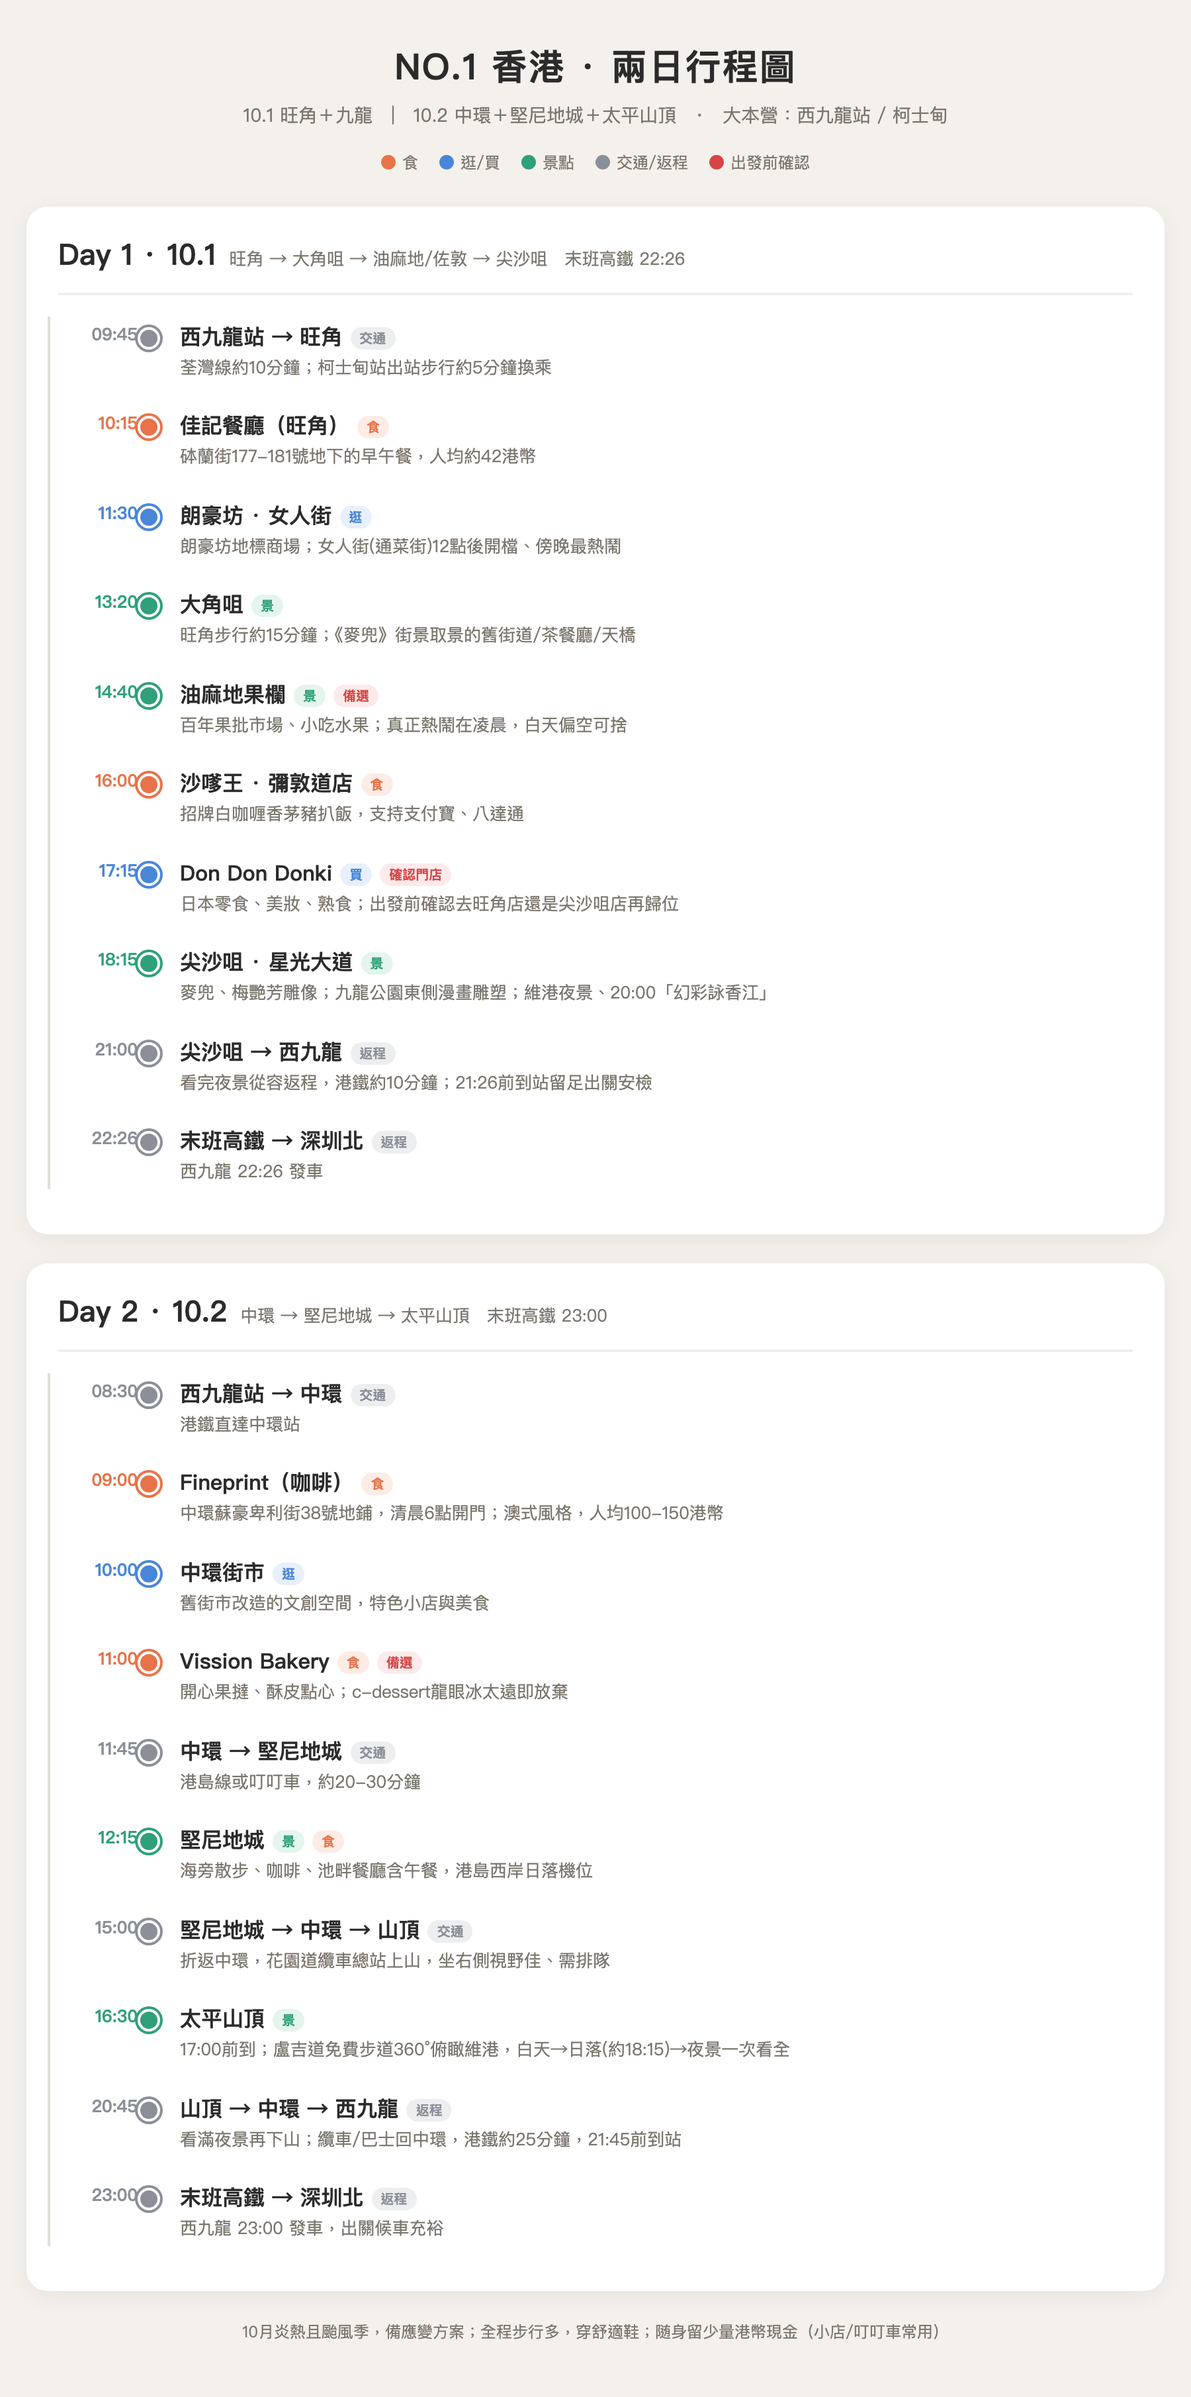
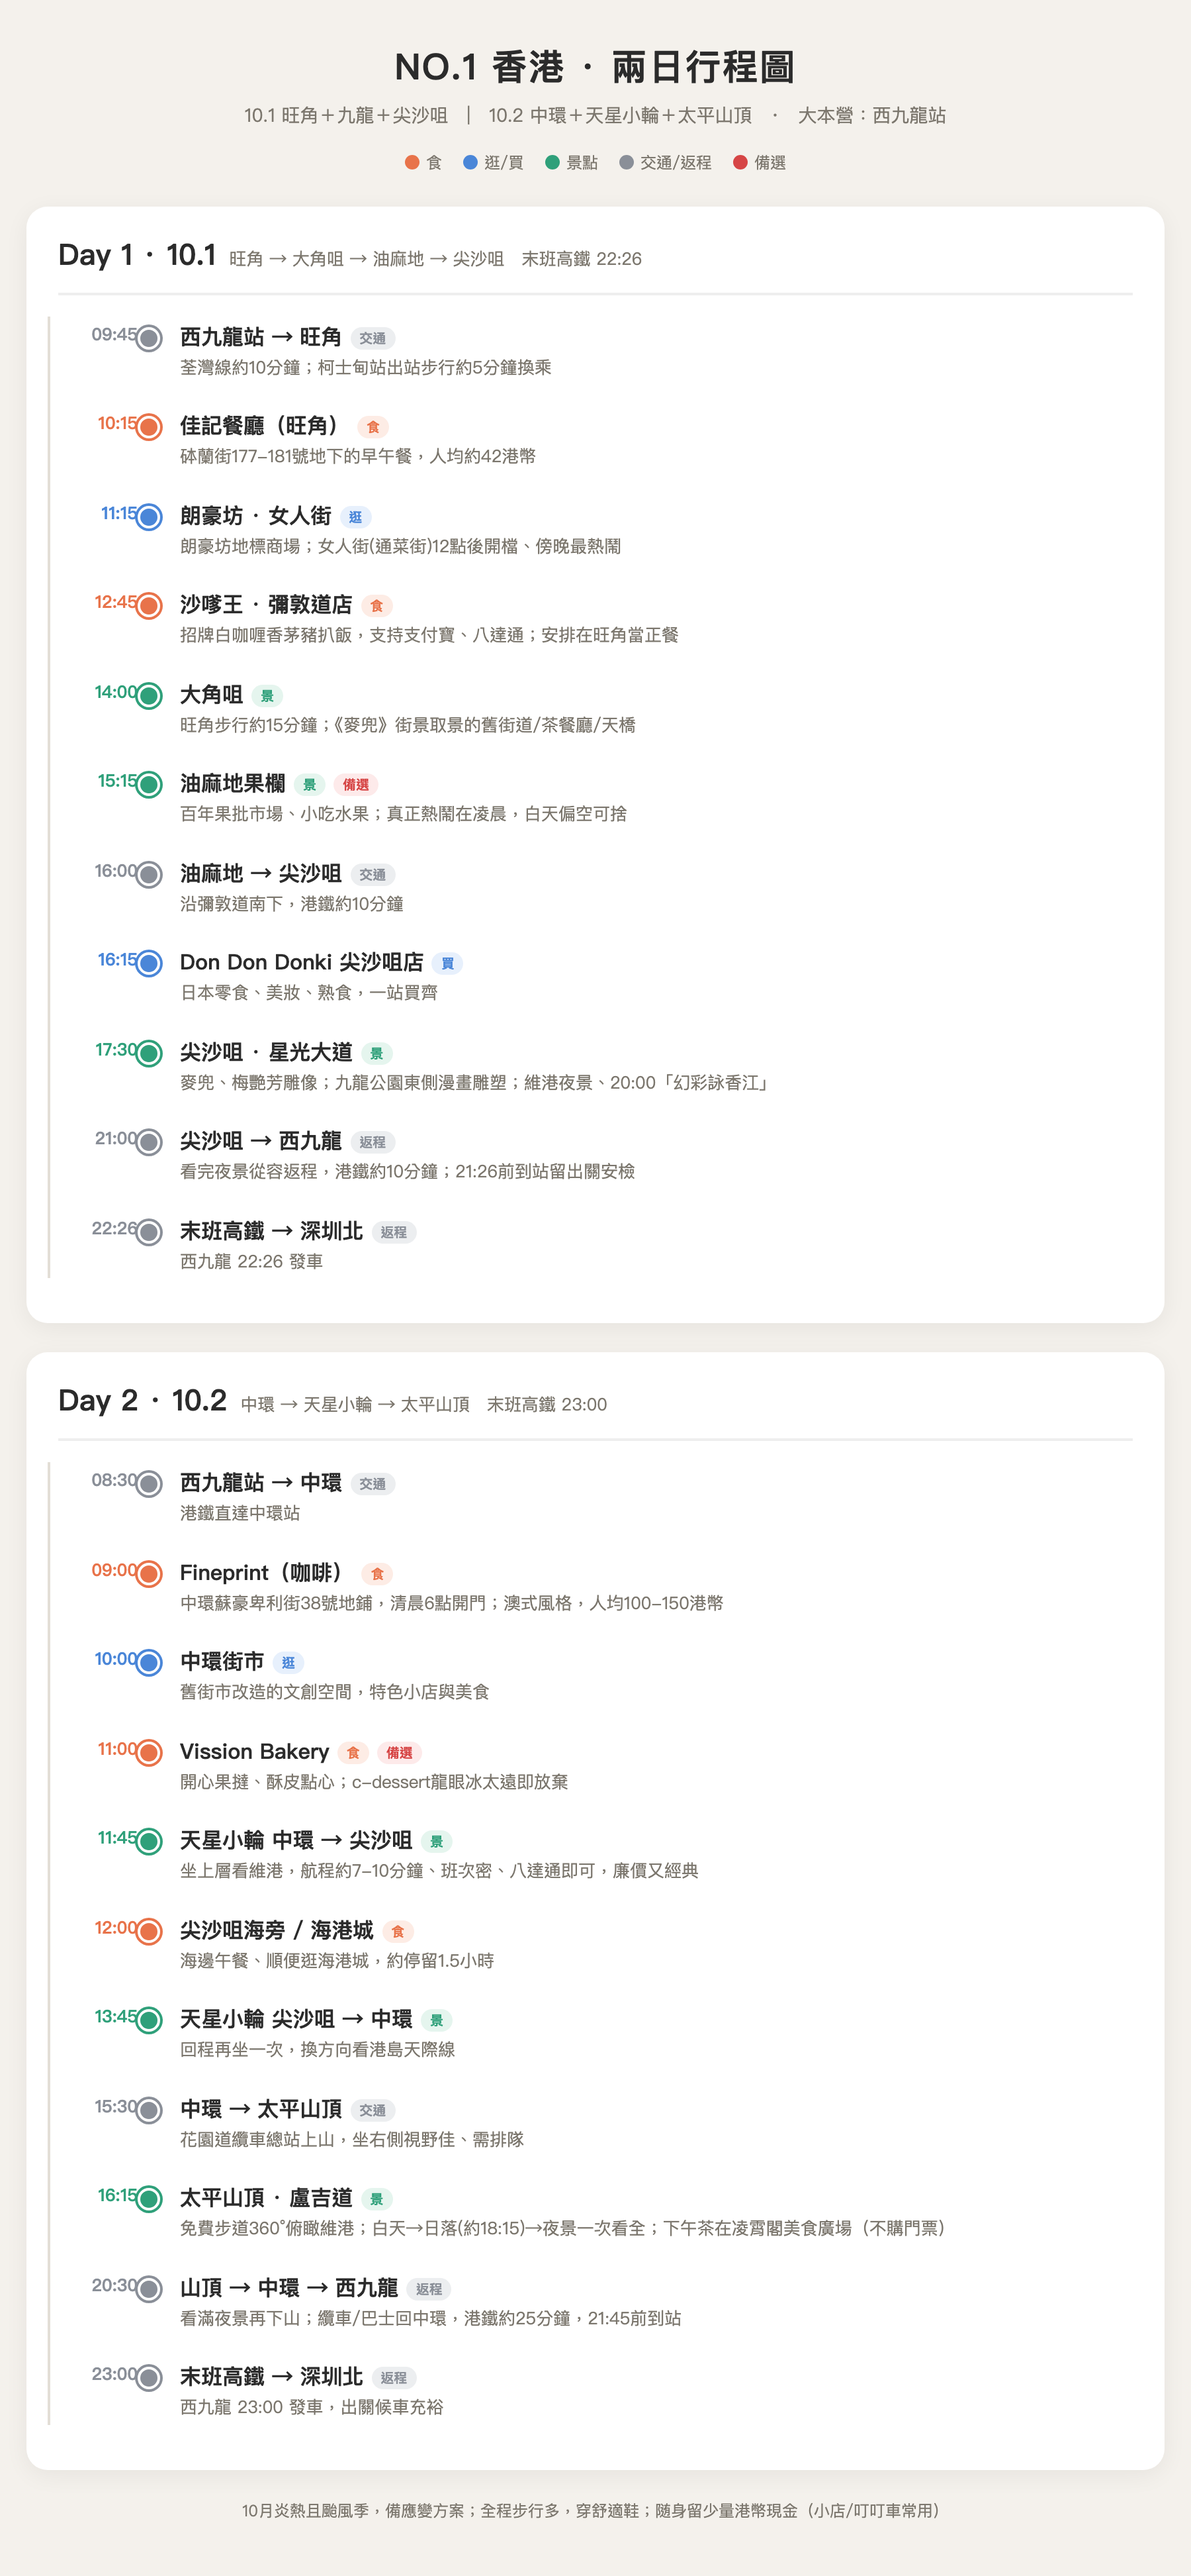
[2026-09-29] 日常 - 香港攻略更新:Donki改尖沙咀/删坚尼地城/加天星小轮/山顶免费卢吉道

diff --git a/日常/2026-09-29/香港行程图_10.1-10.2.html b/日常/2026-09-29/香港行程图_10.1-10.2.html
@@ -41,46 +41,48 @@
 <div class="wrap">
   <header>
     <h1>NO.1 香港 · 兩日行程圖</h1>
-    <p>10.1 旺角＋九龍　|　10.2 中環＋堅尼地城＋太平山頂　·　大本營：西九龍站 / 柯士甸</p>
+    <p>10.1 旺角＋九龍＋尖沙咀　|　10.2 中環＋天星小輪＋太平山頂　·　大本營：西九龍站</p>
   </header>
   <div class="legend">
     <span><i class="dot" style="background:var(--food)"></i>食</span>
     <span><i class="dot" style="background:var(--shop)"></i>逛/買</span>
     <span><i class="dot" style="background:var(--sight)"></i>景點</span>
     <span><i class="dot" style="background:var(--transit)"></i>交通/返程</span>
-    <span><i class="dot" style="background:var(--warn)"></i>出發前確認</span>
+    <span><i class="dot" style="background:var(--warn)"></i>備選</span>
   </div>
 
   <!-- DAY 1 -->
   <section class="day">
-    <div class="day-title"><span class="no">Day 1 · 10.1</span><span class="route">旺角 → 大角咀 → 油麻地/佐敦 → 尖沙咀　末班高鐵 22:26</span></div>
+    <div class="day-title"><span class="no">Day 1 · 10.1</span><span class="route">旺角 → 大角咀 → 油麻地 → 尖沙咀　末班高鐵 22:26</span></div>
     <div class="track">
       <div class="stop" style="--t:var(--transit)"><div class="clock">09:45</div><div class="name">西九龍站 → 旺角<span class="tag transit">交通</span></div><div class="desc">荃灣線約10分鐘；柯士甸站出站步行約5分鐘換乘</div></div>
       <div class="stop" style="--t:var(--food)"><div class="clock">10:15</div><div class="name">佳記餐廳（旺角）<span class="tag food">食</span></div><div class="desc">砵蘭街177-181號地下的早午餐，人均約42港幣</div></div>
-      <div class="stop" style="--t:var(--shop)"><div class="clock">11:30</div><div class="name">朗豪坊 · 女人街<span class="tag shop">逛</span></div><div class="desc">朗豪坊地標商場；女人街(通菜街)12點後開檔、傍晚最熱鬧</div></div>
-      <div class="stop" style="--t:var(--sight)"><div class="clock">13:20</div><div class="name">大角咀<span class="tag sight">景</span></div><div class="desc">旺角步行約15分鐘；《麥兜》街景取景的舊街道/茶餐廳/天橋</div></div>
-      <div class="stop" style="--t:var(--sight)"><div class="clock">14:40</div><div class="name">油麻地果欄<span class="tag sight">景</span><span class="tag todo">備選</span></div><div class="desc">百年果批市場、小吃水果；真正熱鬧在凌晨，白天偏空可捨</div></div>
-      <div class="stop" style="--t:var(--food)"><div class="clock">16:00</div><div class="name">沙嗲王 · 彌敦道店<span class="tag food">食</span></div><div class="desc">招牌白咖喱香茅豬扒飯，支持支付寶、八達通</div></div>
-      <div class="stop" style="--t:var(--shop)"><div class="clock">17:15</div><div class="name">Don Don Donki<span class="tag shop">買</span><span class="tag todo">確認門店</span></div><div class="desc">日本零食、美妝、熟食；出發前確認去旺角店還是尖沙咀店再歸位</div></div>
-      <div class="stop" style="--t:var(--sight)"><div class="clock">18:15</div><div class="name">尖沙咀 · 星光大道<span class="tag sight">景</span></div><div class="desc">麥兜、梅艷芳雕像；九龍公園東側漫畫雕塑；維港夜景、20:00「幻彩詠香江」</div></div>
-      <div class="stop" style="--t:var(--transit)"><div class="clock">21:00</div><div class="name">尖沙咀 → 西九龍<span class="tag transit">返程</span></div><div class="desc">看完夜景從容返程，港鐵約10分鐘；21:26前到站留足出關安檢</div></div>
+      <div class="stop" style="--t:var(--shop)"><div class="clock">11:15</div><div class="name">朗豪坊 · 女人街<span class="tag shop">逛</span></div><div class="desc">朗豪坊地標商場；女人街(通菜街)12點後開檔、傍晚最熱鬧</div></div>
+      <div class="stop" style="--t:var(--food)"><div class="clock">12:45</div><div class="name">沙嗲王 · 彌敦道店<span class="tag food">食</span></div><div class="desc">招牌白咖喱香茅豬扒飯，支持支付寶、八達通；安排在旺角當正餐</div></div>
+      <div class="stop" style="--t:var(--sight)"><div class="clock">14:00</div><div class="name">大角咀<span class="tag sight">景</span></div><div class="desc">旺角步行約15分鐘；《麥兜》街景取景的舊街道/茶餐廳/天橋</div></div>
+      <div class="stop" style="--t:var(--sight)"><div class="clock">15:15</div><div class="name">油麻地果欄<span class="tag sight">景</span><span class="tag todo">備選</span></div><div class="desc">百年果批市場、小吃水果；真正熱鬧在凌晨，白天偏空可捨</div></div>
+      <div class="stop" style="--t:var(--transit)"><div class="clock">16:00</div><div class="name">油麻地 → 尖沙咀<span class="tag transit">交通</span></div><div class="desc">沿彌敦道南下，港鐵約10分鐘</div></div>
+      <div class="stop" style="--t:var(--shop)"><div class="clock">16:15</div><div class="name">Don Don Donki 尖沙咀店<span class="tag shop">買</span></div><div class="desc">日本零食、美妝、熟食，一站買齊</div></div>
+      <div class="stop" style="--t:var(--sight)"><div class="clock">17:30</div><div class="name">尖沙咀 · 星光大道<span class="tag sight">景</span></div><div class="desc">麥兜、梅艷芳雕像；九龍公園東側漫畫雕塑；維港夜景、20:00「幻彩詠香江」</div></div>
+      <div class="stop" style="--t:var(--transit)"><div class="clock">21:00</div><div class="name">尖沙咀 → 西九龍<span class="tag transit">返程</span></div><div class="desc">看完夜景從容返程，港鐵約10分鐘；21:26前到站留出關安檢</div></div>
       <div class="stop" style="--t:var(--transit)"><div class="clock">22:26</div><div class="name">末班高鐵 → 深圳北<span class="tag transit">返程</span></div><div class="desc">西九龍 22:26 發車</div></div>
     </div>
   </section>
 
   <!-- DAY 2 -->
   <section class="day">
-    <div class="day-title"><span class="no">Day 2 · 10.2</span><span class="route">中環 → 堅尼地城 → 太平山頂　末班高鐵 23:00</span></div>
+    <div class="day-title"><span class="no">Day 2 · 10.2</span><span class="route">中環 → 天星小輪 → 太平山頂　末班高鐵 23:00</span></div>
     <div class="track">
       <div class="stop" style="--t:var(--transit)"><div class="clock">08:30</div><div class="name">西九龍站 → 中環<span class="tag transit">交通</span></div><div class="desc">港鐵直達中環站</div></div>
       <div class="stop" style="--t:var(--food)"><div class="clock">09:00</div><div class="name">Fineprint（咖啡）<span class="tag food">食</span></div><div class="desc">中環蘇豪卑利街38號地鋪，清晨6點開門；澳式風格，人均100-150港幣</div></div>
       <div class="stop" style="--t:var(--shop)"><div class="clock">10:00</div><div class="name">中環街市<span class="tag shop">逛</span></div><div class="desc">舊街市改造的文創空間，特色小店與美食</div></div>
       <div class="stop" style="--t:var(--food)"><div class="clock">11:00</div><div class="name">Vission Bakery<span class="tag food">食</span><span class="tag todo">備選</span></div><div class="desc">開心果撻、酥皮點心；c-dessert龍眼冰太遠即放棄</div></div>
-      <div class="stop" style="--t:var(--transit)"><div class="clock">11:45</div><div class="name">中環 → 堅尼地城<span class="tag transit">交通</span></div><div class="desc">港島線或叮叮車，約20-30分鐘</div></div>
-      <div class="stop" style="--t:var(--sight)"><div class="clock">12:15</div><div class="name">堅尼地城<span class="tag sight">景</span><span class="tag food">食</span></div><div class="desc">海旁散步、咖啡、池畔餐廳含午餐，港島西岸日落機位</div></div>
-      <div class="stop" style="--t:var(--transit)"><div class="clock">15:00</div><div class="name">堅尼地城 → 中環 → 山頂<span class="tag transit">交通</span></div><div class="desc">折返中環，花園道纜車總站上山，坐右側視野佳、需排隊</div></div>
-      <div class="stop" style="--t:var(--sight)"><div class="clock">16:30</div><div class="name">太平山頂<span class="tag sight">景</span></div><div class="desc">17:00前到；盧吉道免費步道360°俯瞰維港，白天→日落(約18:15)→夜景一次看全</div></div>
-      <div class="stop" style="--t:var(--transit)"><div class="clock">20:45</div><div class="name">山頂 → 中環 → 西九龍<span class="tag transit">返程</span></div><div class="desc">看滿夜景再下山；纜車/巴士回中環，港鐵約25分鐘，21:45前到站</div></div>
+      <div class="stop" style="--t:var(--sight)"><div class="clock">11:45</div><div class="name">天星小輪 中環 → 尖沙咀<span class="tag sight">景</span></div><div class="desc">坐上層看維港，航程約7-10分鐘、班次密、八達通即可，廉價又經典</div></div>
+      <div class="stop" style="--t:var(--food)"><div class="clock">12:00</div><div class="name">尖沙咀海旁 / 海港城<span class="tag food">食</span></div><div class="desc">海邊午餐、順便逛海港城，約停留1.5小時</div></div>
+      <div class="stop" style="--t:var(--sight)"><div class="clock">13:45</div><div class="name">天星小輪 尖沙咀 → 中環<span class="tag sight">景</span></div><div class="desc">回程再坐一次，換方向看港島天際線</div></div>
+      <div class="stop" style="--t:var(--transit)"><div class="clock">15:30</div><div class="name">中環 → 太平山頂<span class="tag transit">交通</span></div><div class="desc">花園道纜車總站上山，坐右側視野佳、需排隊</div></div>
+      <div class="stop" style="--t:var(--sight)"><div class="clock">16:15</div><div class="name">太平山頂 · 盧吉道<span class="tag sight">景</span></div><div class="desc">免費步道360°俯瞰維港；白天→日落(約18:15)→夜景一次看全；下午茶在凌霄閣美食廣場（不購門票）</div></div>
+      <div class="stop" style="--t:var(--transit)"><div class="clock">20:30</div><div class="name">山頂 → 中環 → 西九龍<span class="tag transit">返程</span></div><div class="desc">看滿夜景再下山；纜車/巴士回中環，港鐵約25分鐘，21:45前到站</div></div>
       <div class="stop" style="--t:var(--transit)"><div class="clock">23:00</div><div class="name">末班高鐵 → 深圳北<span class="tag transit">返程</span></div><div class="desc">西九龍 23:00 發車，出關候車充裕</div></div>
     </div>
   </section>

diff --git a/日常/2026-09-29/香港行程地图_10.1-10.2.html b/日常/2026-09-29/香港行程地图_10.1-10.2.html
@@ -34,7 +34,7 @@
 <body>
   <div class="head">
     <h1>NO.1 香港 · 兩日行程地圖標注</h1>
-    <p>10.1 旺角＋九龍（橙）　|　10.2 中環＋堅尼地城＋太平山頂（藍）　·　大本營：西九龍站</p>
+    <p>10.1 旺角＋九龍＋尖沙咀（橙）　|　10.2 中環＋天星小輪＋太平山頂（藍）　·　大本營：西九龍站</p>
   </div>
   <div class="board">
     <div id="map"></div>
@@ -49,12 +49,12 @@
 const D1=[
  {t:"09:45",n:"西九龍站 → 旺角",c:[22.3040,114.1620]},
  {t:"10:15",n:"佳記餐廳（早午餐）",c:[22.3198,114.1688]},
- {t:"11:30",n:"朗豪坊 · 女人街",c:[22.3178,114.1704]},
- {t:"13:20",n:"大角咀（麥兜街景）",c:[22.3150,114.1610]},
- {t:"14:40",n:"油麻地果欄（備選）",c:[22.3118,114.1698]},
- {t:"16:00",n:"沙嗲王 · 彌敦道",c:[22.3185,114.1700]},
- {t:"17:15",n:"Don Don Donki",c:[22.3205,114.1710]},
- {t:"18:15",n:"尖沙咀 · 星光大道",c:[22.2950,114.1778]},
+ {t:"11:15",n:"朗豪坊 · 女人街",c:[22.3178,114.1704]},
+ {t:"12:45",n:"沙嗲王 · 彌敦道（旺角）",c:[22.3185,114.1700]},
+ {t:"14:00",n:"大角咀（麥兜街景）",c:[22.3150,114.1610]},
+ {t:"15:15",n:"油麻地果欄（備選）",c:[22.3118,114.1698]},
+ {t:"16:15",n:"Donki 尖沙咀店",c:[22.2980,114.1715]},
+ {t:"17:30",n:"尖沙咀 · 星光大道",c:[22.2950,114.1778]},
  {t:"22:26",n:"西九龍 → 深圳北",c:[22.3040,114.1620]},
 ];
 const D2=[
@@ -62,9 +62,10 @@ const D2=[
  {t:"09:00",n:"Fineprint（卑利街）",c:[22.2835,114.1525]},
  {t:"10:00",n:"中環街市",c:[22.2843,114.1558]},
  {t:"11:00",n:"Vission Bakery",c:[22.2830,114.1545]},
- {t:"12:15",n:"堅尼地城（海旁/午餐）",c:[22.2820,114.1270]},
- {t:"15:45",n:"山頂纜車花園道總站",c:[22.2770,114.1550]},
- {t:"16:30",n:"太平山頂（日落+夜景）",c:[22.2758,114.1451]},
+ {t:"11:45",n:"天星小輪中環碼頭",c:[22.2868,114.1617]},
+ {t:"12:00",n:"尖沙咀碼頭 / 海港城",c:[22.2941,114.1715]},
+ {t:"15:30",n:"山頂纜車花園道總站",c:[22.2770,114.1550]},
+ {t:"16:15",n:"太平山頂 · 盧吉道",c:[22.2758,114.1451]},
  {t:"23:00",n:"中環 → 西九龍 → 深圳北",c:[22.3040,114.1620]},
 ];
 
